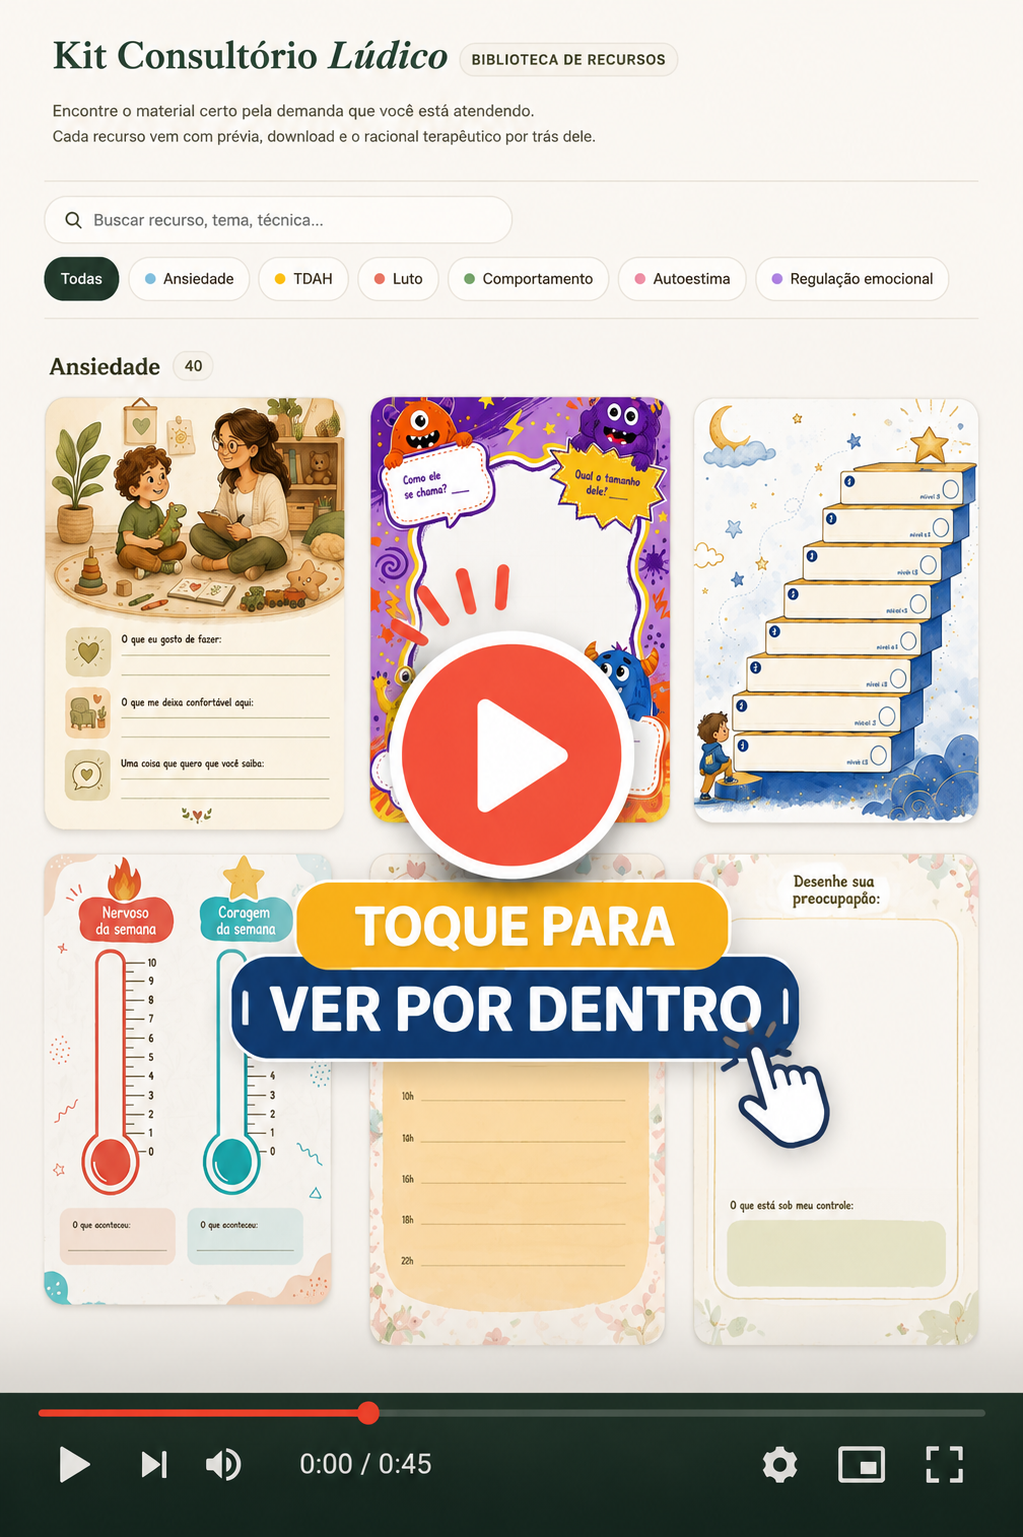
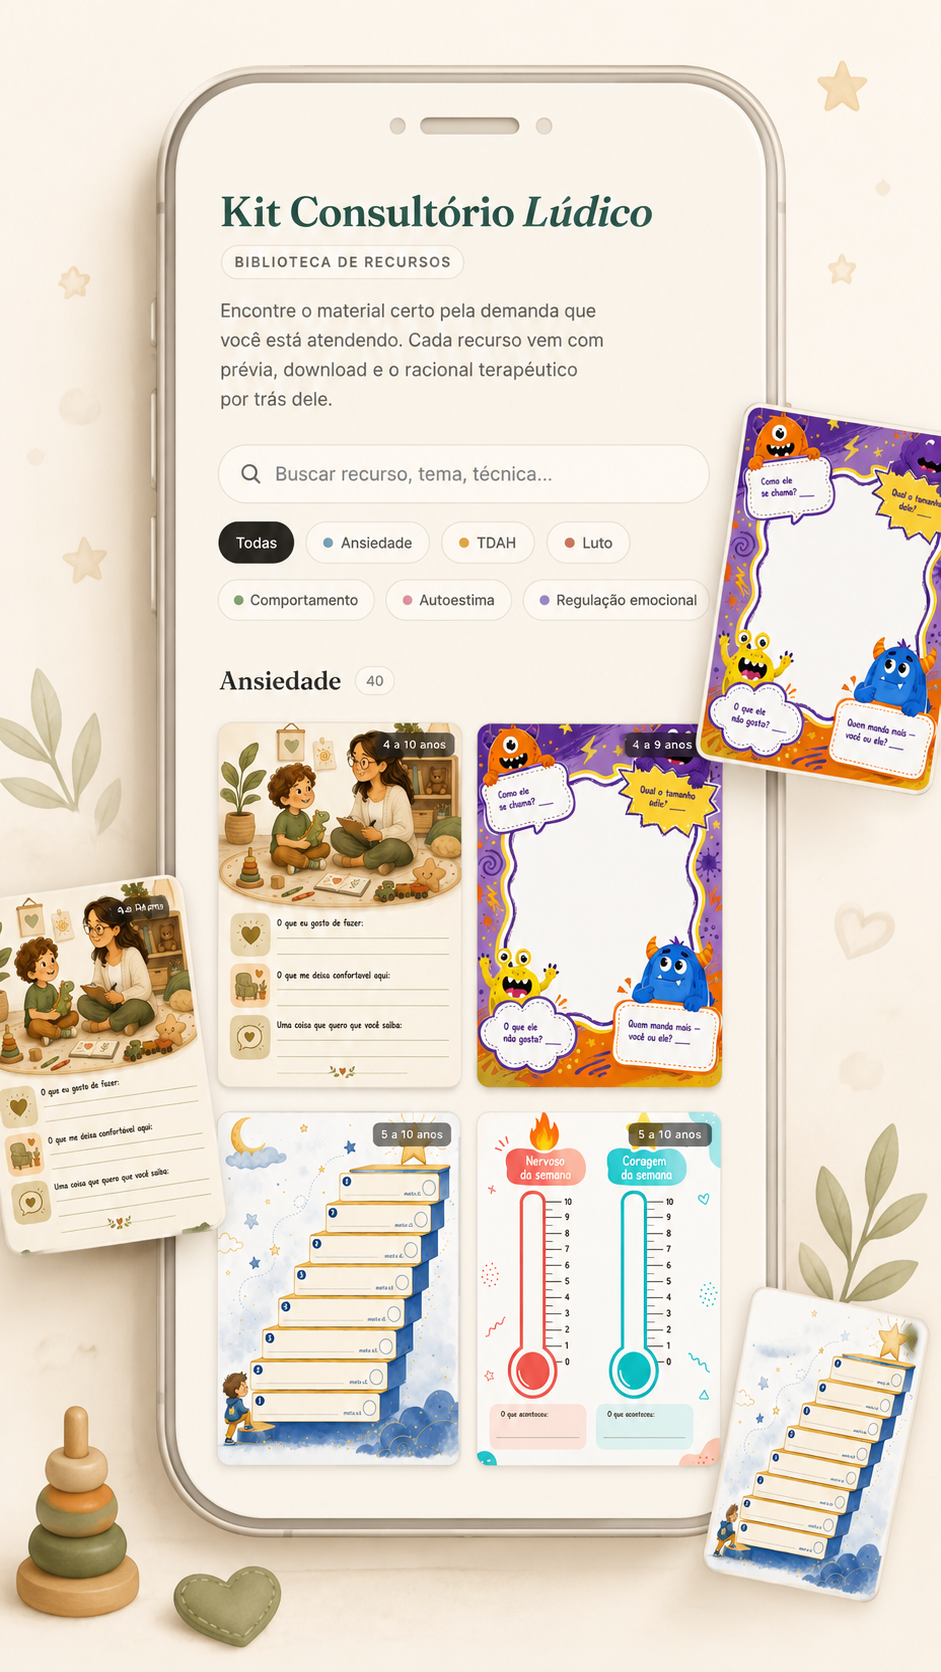
Atualiza thumb da biblioteca com CTA 'Toque para ver o material por dentro'

diff --git a/index.html b/index.html
@@ -1127,8 +1127,11 @@
       <div style="max-width:700px;margin:36px auto 0;border-radius:14px;overflow:hidden;box-shadow:0 8px 32px rgba(42,157,143,0.12);position:relative;">
         <div id="gif-thumb" onclick="playGif()" style="position:absolute;top:0;left:0;width:100%;height:100%;cursor:pointer;z-index:10;">
           <img src="imagens/thumbgif.webp" alt="Ver demonstração" style="width:100%;height:100%;object-fit:cover;display:block;" />
-          <div style="position:absolute;top:50%;left:50%;transform:translate(-50%,-50%);width:68px;height:68px;background:#fff;border-radius:50%;display:flex;align-items:center;justify-content:center;box-shadow:0 0 0 10px rgba(255,255,255,0.25);animation:pulse-play 2s ease-out infinite;">
-            <svg width="26" height="26" viewBox="0 0 24 24" fill="#2A9D8F"><polygon points="6,3 20,12 6,21"/></svg>
+          <div style="position:absolute;top:50%;left:50%;transform:translate(-50%,-50%);display:flex;flex-direction:column;align-items:center;gap:16px;width:90%;">
+            <div style="width:72px;height:72px;background:#fff;border-radius:50%;display:flex;align-items:center;justify-content:center;box-shadow:0 0 0 10px rgba(255,255,255,0.25);animation:pulse-play 2s ease-out infinite;flex-shrink:0;">
+              <svg width="26" height="26" viewBox="0 0 24 24" fill="#2A9D8F"><polygon points="6,3 20,12 6,21"/></svg>
+            </div>
+            <p style="color:#fff;font-size:clamp(16px,4vw,22px);font-weight:900;text-align:center;line-height:1.2;text-shadow:0 2px 12px rgba(0,0,0,0.55);letter-spacing:0.5px;text-transform:uppercase;margin:0;">Toque para ver o<br>material por dentro</p>
           </div>
         </div>
         <div style="padding:177.78% 0 0 0;position:relative;">
